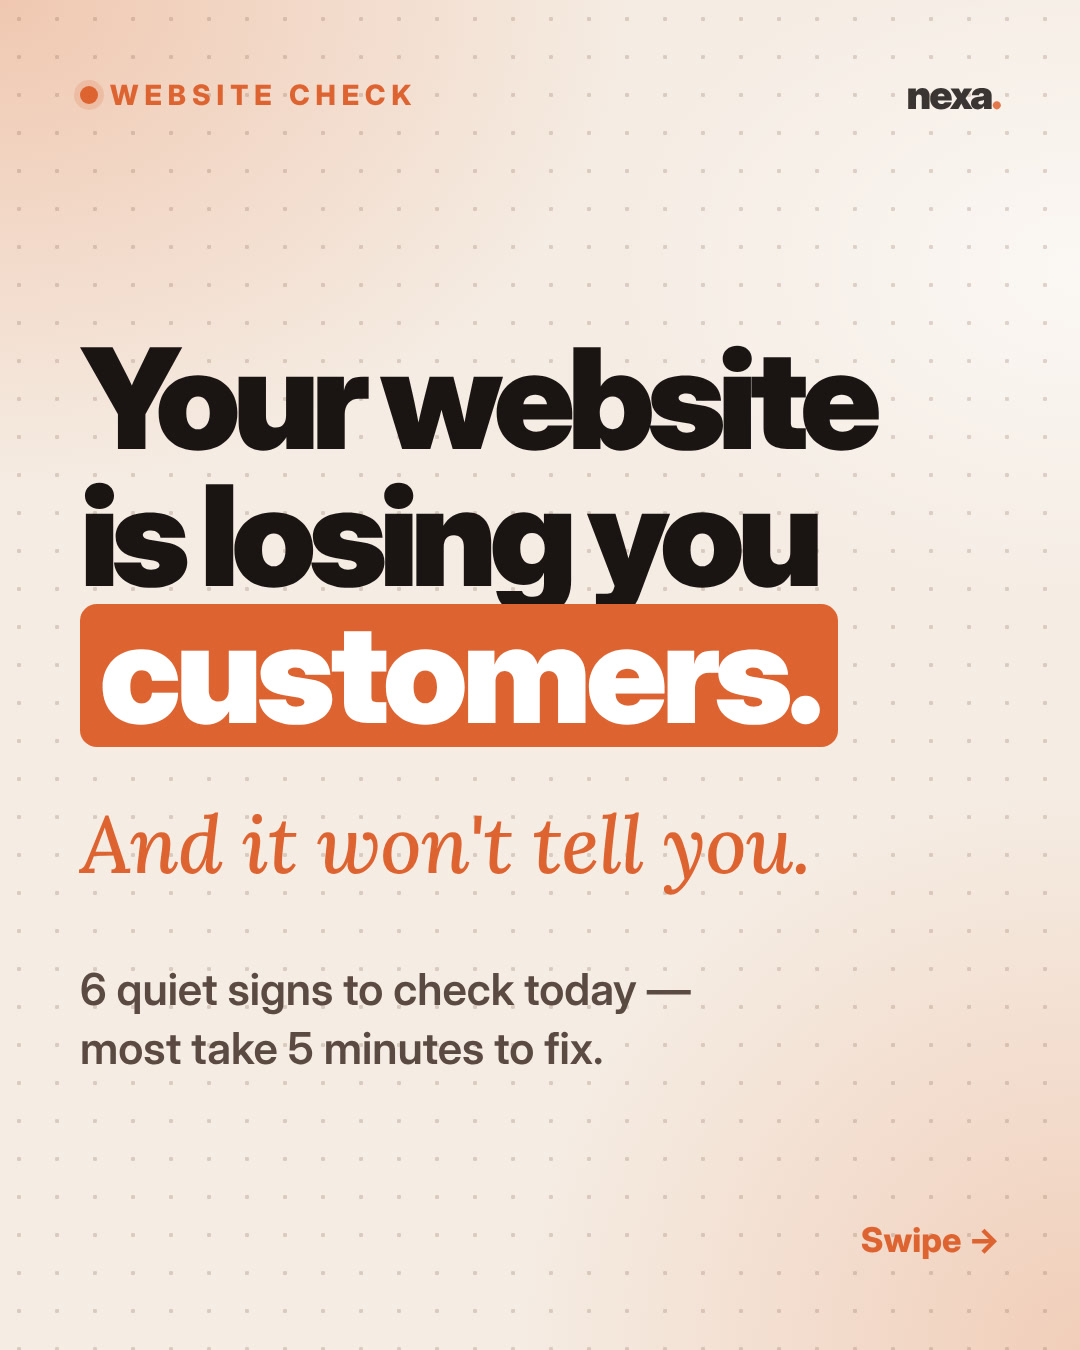
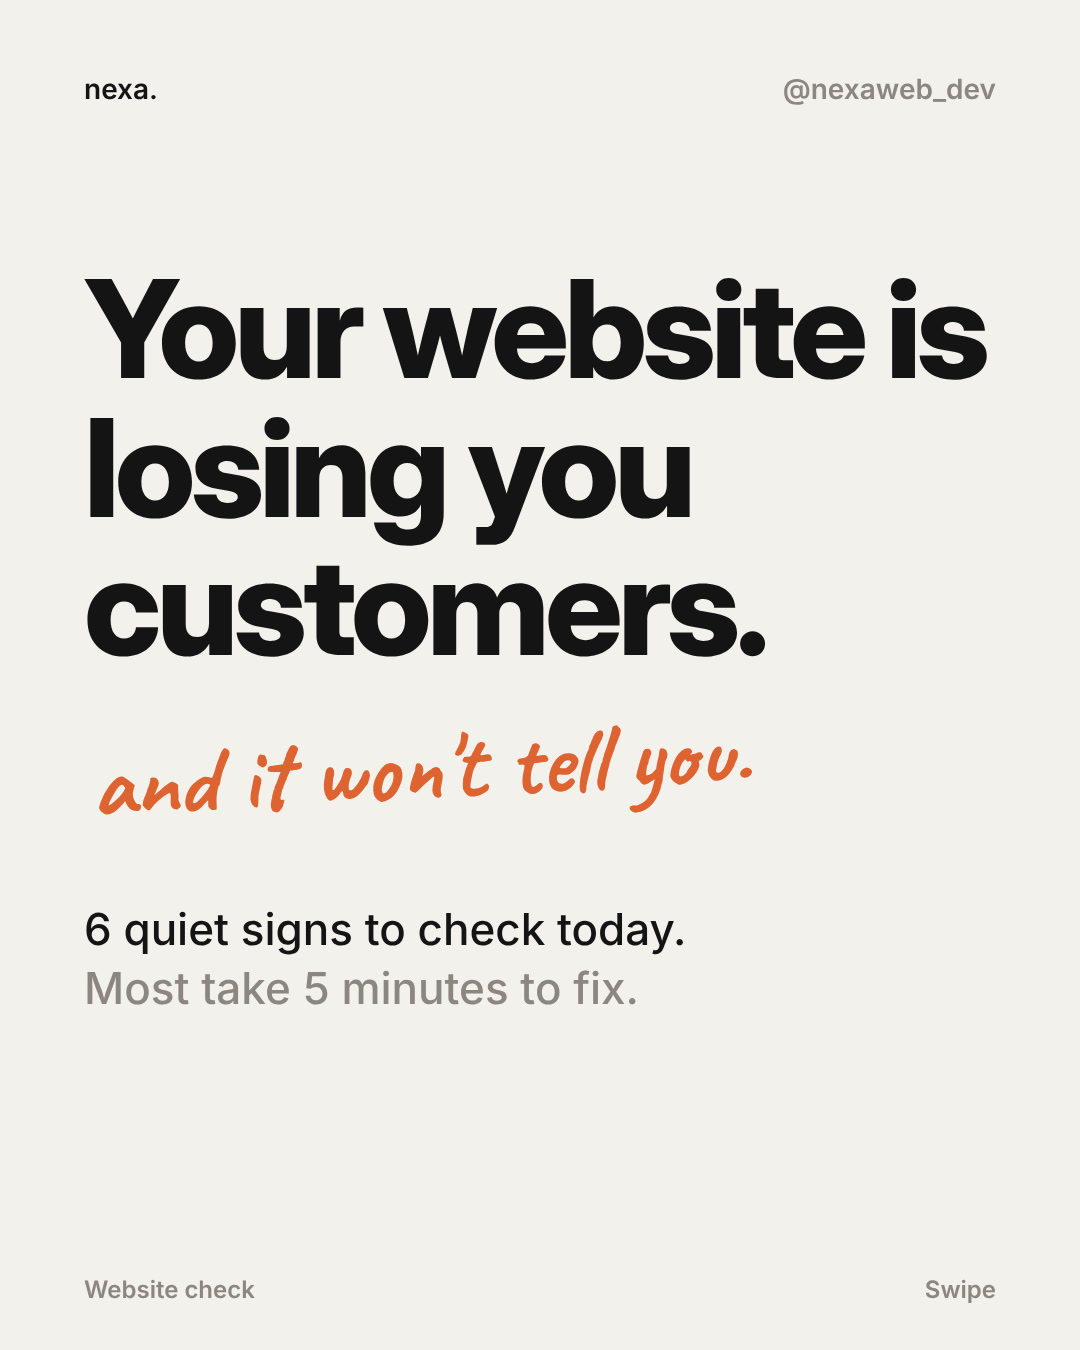
Nexa carousel v2: hand-annotated wireframe style, no dashes; add owner style notes
Claude-Session: https://claude.ai/code/session_01MAv6C5ZgnW2b7gxvkk4iYD

diff --git a/nexa/images/website-costing-customers-6-signs/src/slides.html b/nexa/images/website-costing-customers-6-signs/src/slides.html
@@ -1,126 +1,137 @@
 <!doctype html><html><head><meta charset="utf-8"><style>
+@font-face{font-family:Hand;src:url(/home/claude/reels-hosting/pipeline/fonts/Caveat.ttf)}
 *{box-sizing:border-box;margin:0;padding:0}
-body{font-family:'Inter Display','Inter',sans-serif;color:#1a1412;background:#ccc}
-.s{position:relative;width:1080px;height:1350px;overflow:hidden;background:#F5ECE3}
-.bg{position:absolute;inset:0;background:
- radial-gradient(900px 700px at 0% 0%,rgba(236,170,135,.55),transparent 70%),
- radial-gradient(800px 800px at 100% 100%,rgba(236,170,135,.45),transparent 70%),
- radial-gradient(700px 500px at 100% 20%,rgba(255,255,255,.6),transparent 70%),#F5ECE3}
-.dots{position:absolute;inset:0;background-image:radial-gradient(rgba(120,85,65,.22) 2px,transparent 2.4px);background-size:38px 38px}
-.tag{position:absolute;right:80px;top:70px;font-weight:900;font-size:40px;letter-spacing:-2px;opacity:.85}
-.tag b,.O{color:#DD6431}
-.pg{position:absolute;left:80px;top:78px;font-weight:800;font-size:28px;letter-spacing:6px;color:#DD6431}
-.pg i{display:inline-block;width:18px;height:18px;border-radius:50%;background:#DD6431;margin-right:12px;box-shadow:0 0 0 6px rgba(221,100,49,.18);vertical-align:1px}
-.c{position:absolute;left:80px;right:80px}
-.h{font-weight:900;letter-spacing:-.055em;line-height:.98}
-.box{display:inline-block;background:#DD6431;color:#fff;padding:0 .14em .04em;border-radius:.12em;letter-spacing:-.04em}
-.ser{font-family:'Lora';font-style:italic;font-weight:500;color:#DD6431;letter-spacing:-.01em}
-.card{background:#FFFBF6;border-radius:36px;box-shadow:0 30px 60px rgba(120,70,40,.16);border:1.5px solid rgba(120,80,60,.08);overflow:hidden}
-.bar{height:76px;display:flex;align-items:center;gap:12px;padding:0 30px;border-bottom:1.5px solid #eee2d8}
-.bar s{width:18px;height:18px;border-radius:50%;background:#e8dcd2;display:inline-block}.bar s:first-child{background:#DD6431}
-.url{font-family:'DejaVu Sans Mono',monospace;font-size:24px;color:#a89a90;margin-left:14px}
-.fix{position:absolute;left:80px;right:80px;bottom:90px;background:#242120;color:#f2e8e0;border-radius:32px;padding:34px 40px;font-size:38px;font-weight:600;line-height:1.3;letter-spacing:-.01em}
-.fix b{color:#DD6431;font-weight:900;letter-spacing:2px;font-size:28px;display:block;margin-bottom:10px}
-.bad{display:inline-block;background:#F3D3C0;color:#B44E22;border-radius:999px;padding:8px 24px;font-weight:800;font-size:28px}
-.mono{font-family:'DejaVu Sans Mono',monospace}
-.swipe{position:absolute;right:80px;bottom:90px;font-weight:800;font-size:34px;color:#DD6431}
+body{font-family:'Inter','Inter Display',sans-serif;color:#141414;background:#999}
+.s{position:relative;width:1080px;height:1350px;overflow:hidden;background:#F3F1EC}
+.top{position:absolute;left:84px;right:84px;top:72px;display:flex;justify-content:space-between;font-size:28px;font-weight:600;color:#141414}
+.top span:last-child{color:#8b8780}
+.num{position:absolute;left:84px;top:150px;font-family:'Inter Display';font-weight:800;font-size:34px;color:#DD6431}
+.h{position:absolute;left:84px;right:84px;font-family:'Inter Display';font-weight:800;letter-spacing:-.035em;line-height:1.02}
+.win{position:absolute;left:84px;right:84px;background:#fff;border:3px solid #141414;border-radius:14px;overflow:hidden}
+.wbar{height:58px;border-bottom:3px solid #141414;display:flex;align-items:center;padding:0 22px;gap:10px}
+.wbar i{width:16px;height:16px;border-radius:50%;border:2.5px solid #141414;display:inline-block}
+.wbar span{margin-left:16px;font-family:'DejaVu Sans Mono',monospace;font-size:22px;color:#6f6b64}
+.hand{font-family:Hand;color:#DD6431;font-weight:700;position:absolute;line-height:1}
+svg.mk{position:absolute;overflow:visible;pointer-events:none}
+.fix{position:absolute;left:84px;right:84px;bottom:110px;border-top:3px solid #141414;padding-top:28px;font-size:38px;line-height:1.32;font-weight:500}
+.fix b{font-weight:800}
+.foot{position:absolute;left:84px;right:84px;bottom:46px;display:flex;justify-content:space-between;font-size:24px;color:#8b8780;font-weight:600}
+.grey{color:#8b8780}
+.field{border:2px solid #cfcac2;border-radius:8px;padding:12px 16px;font-size:24px;color:#9a958d}
+.pill{border:2px solid #cfcac2;border-radius:8px;padding:10px 20px;font-size:26px;font-weight:600;color:#8b8780;display:inline-block}
 </style></head><body>
 
-<!-- 1 HOOK -->
-<div class="s" id="s1"><div class="bg"></div><div class="dots"></div><div class="tag">nexa<b>.</b></div>
-<div class="pg"><i></i>WEBSITE CHECK</div>
-<div class="c h" style="top:330px;font-size:140px">Your website<br>is losing you<br><span class="box">customers.</span></div>
-<div class="c ser" style="top:800px;font-size:80px;line-height:1.1">And it won't tell you.</div>
-<div class="c" style="top:960px;font-size:44px;font-weight:600;line-height:1.35;color:#5a4a42">6 quiet signs to check today &mdash;<br>most take 5 minutes to fix.</div>
-<div class="swipe">Swipe &rarr;</div>
+<div class="s" id="s1">
+ <div class="top"><span>nexa.</span><span>@nexaweb_dev</span></div>
+ <div class="h" style="top:260px;font-size:136px">Your website is losing you customers.</div>
+ <div class="hand" style="left:90px;top:720px;font-size:96px;transform:rotate(-3deg)">and it won't tell you.</div>
+ 
+ <div style="position:absolute;left:84px;top:900px;font-size:44px;font-weight:500;line-height:1.35;width:820px">6 quiet signs to check today.<br><span class="grey">Most take 5 minutes to fix.</span></div>
+ <div class="foot"><span>Website check</span><span>Swipe</span></div>
 </div>
 
-<!-- 2 -->
-<div class="s" id="s2"><div class="bg"></div><div class="dots"></div><div class="tag">nexa<b>.</b></div>
-<div class="pg"><i></i>SIGN 01 / 06</div>
-<div class="c h" style="top:170px;font-size:92px">A stranger can't tell <span class="box">what you do</span> in 5 seconds.</div>
-<div class="c card" style="top:500px"><div class="bar"><s></s><s></s><s></s><span class="url">yourplumber.example</span></div>
- <div style="padding:34px 40px"><span class="bad">Before</span><div class="h" style="font-size:54px;margin-top:16px;color:#8a7c74">Welcome to our website!</div>
- <div style="height:2px;background:#eee2d8;margin:26px 0"></div><span class="bad" style="background:#DD6431;color:#fff">After</span><div class="h" style="font-size:54px;margin-top:16px">Blocked drain? Fixed today in Parramatta.</div></div></div>
-<div class="fix"><b>THE FIX</b>Headline = what you do + who it's for + where. "Welcome" says nothing.</div>
+<div class="s" id="s2">
+ <div class="top"><span>nexa.</span><span>2 / 8</span></div>
+ <div class="num">Sign 1</div>
+ <div class="h" style="top:210px;font-size:84px">A stranger can't tell what you do in 5 seconds.</div>
+ <div class="win" style="top:540px;height:420px"><div class="wbar"><i></i><i></i><i></i><span>yourplumber.example</span></div>
+  <div style="padding:40px 44px"><div style="font-size:24px;letter-spacing:3px;color:#9a958d;font-weight:700">HOME &nbsp; ABOUT &nbsp; SERVICES &nbsp; CONTACT</div>
+  <div style="font-family:'Inter Display';font-weight:700;font-size:70px;margin-top:44px;letter-spacing:-.02em">Welcome to our website!</div>
+  <div style="font-size:28px;color:#9a958d;margin-top:18px">We are passionate about excellence and quality.</div></div></div>
+ <svg class="mk" id="c2" style="left:100px;top:660px" width="860" height="160"></svg>
+ <div class="hand" style="left:470px;top:975px;font-size:62px;transform:rotate(-4deg)">ok but what do you do?</div>
+ <div class="fix"><b>Fix:</b> say what you do, who it's for and where. "Blocked drain? Fixed today in Parramatta."</div>
+ <div class="foot"><span>@nexaweb_dev</span><span>Save for later</span></div>
 </div>
 
-<!-- 3 -->
-<div class="s" id="s3"><div class="bg"></div><div class="dots"></div><div class="tag">nexa<b>.</b></div>
-<div class="pg"><i></i>SIGN 02 / 06</div>
-<div class="c h" style="top:170px;font-size:92px">Your phone number <span class="box">can't be tapped</span> on mobile.</div>
-<div style="position:absolute;left:300px;top:470px;width:480px;height:520px" class="card">
- <div style="height:40px;display:flex;justify-content:center;align-items:center"><span style="width:120px;height:12px;border-radius:9px;background:#e8dcd2"></span></div>
- <div style="padding:20px 36px"><div style="height:22px;width:70%;background:#eee2d8;border-radius:8px"></div><div style="height:22px;width:90%;background:#eee2d8;border-radius:8px;margin-top:14px"></div>
- <div class="mono" style="margin-top:30px;font-size:34px;color:#8a7c74">Ph: 02 5550 4321</div><div style="font-size:24px;color:#B44E22;font-weight:700;margin-top:8px">&uarr; just text. Copy, switch apps, paste&hellip;</div>
- <div style="margin-top:36px;background:#DD6431;color:#fff;border-radius:999px;text-align:center;padding:24px;font-weight:900;font-size:36px">&#9742; Tap to call</div>
- <div style="font-size:24px;color:#5a4a42;font-weight:700;margin-top:10px;text-align:center">&uarr; one tap. Done.</div></div></div>
-<div class="fix"><b>THE FIX</b>Link every number with tel: and add a call button that's always in reach.</div>
+<div class="s" id="s3">
+ <div class="top"><span>nexa.</span><span>3 / 8</span></div>
+ <div class="num">Sign 2</div>
+ <div class="h" style="top:210px;font-size:84px">Your phone number can't be tapped on mobile.</div>
+ <div class="win" style="left:120px;right:auto;width:480px;top:520px;height:470px;border-radius:44px">
+  <div style="padding:60px 40px"><div style="height:20px;width:70%;background:#e6e2db;border-radius:6px"></div><div style="height:20px;width:90%;background:#e6e2db;border-radius:6px;margin-top:14px"></div>
+  <div style="font-size:30px;font-weight:600;margin-top:46px">Call us today!</div>
+  <div style="font-size:40px;font-weight:500;margin-top:8px;color:#6f6b64">02 5550 4321</div>
+  <div style="height:20px;width:80%;background:#e6e2db;border-radius:6px;margin-top:46px"></div><div style="height:20px;width:60%;background:#e6e2db;border-radius:6px;margin-top:14px"></div></div></div>
+ <svg class="mk" id="c3" style="left:125px;top:722px" width="400" height="90"></svg>
+ <div class="hand" style="left:640px;top:690px;font-size:60px;transform:rotate(-4deg);width:380px">&larr; not a link.<br>copy, paste,<br>give up</div>
+ <div class="fix"><b>Fix:</b> make every number a tap to call link, plus a call button that stays on screen.</div>
+ <div class="foot"><span>@nexaweb_dev</span><span>Save for later</span></div>
 </div>
 
-<!-- 4 -->
-<div class="s" id="s4"><div class="bg"></div><div class="dots"></div><div class="tag">nexa<b>.</b></div>
-<div class="pg"><i></i>SIGN 03 / 06</div>
-<div class="c h" style="top:170px;font-size:92px">Your contact form asks for their <span class="box">life story.</span></div>
-<div class="c card" style="top:500px;height:470px;padding:34px 40px">
- <div style="display:grid;grid-template-columns:1fr 1fr;gap:16px">
- <div class="mono" style="font-size:24px;color:#a89a90;border:2px solid #eee2d8;border-radius:14px;padding:14px">Name *</div><div class="mono" style="font-size:24px;color:#a89a90;border:2px solid #eee2d8;border-radius:14px;padding:14px">Company *</div>
- <div class="mono" style="font-size:24px;color:#a89a90;border:2px solid #eee2d8;border-radius:14px;padding:14px">Job title *</div><div class="mono" style="font-size:24px;color:#a89a90;border:2px solid #eee2d8;border-radius:14px;padding:14px">Budget *</div>
- <div class="mono" style="font-size:24px;color:#a89a90;border:2px solid #eee2d8;border-radius:14px;padding:14px">Address *</div><div class="mono" style="font-size:24px;color:#a89a90;border:2px solid #eee2d8;border-radius:14px;padding:14px">Postcode *</div>
- <div class="mono" style="font-size:24px;color:#a89a90;border:2px solid #eee2d8;border-radius:14px;padding:14px">How did you hear? *</div><div class="mono" style="font-size:24px;color:#a89a90;border:2px solid #eee2d8;border-radius:14px;padding:14px">Fax *</div></div>
- <div class="ser" style="font-size:52px;margin-top:36px;text-align:center">&hellip;and they're gone.</div></div>
-<div class="fix"><b>THE FIX</b>Ask only what you need to reply: name, phone or email, message. Get the rest on the call.</div>
+<div class="s" id="s4">
+ <div class="top"><span>nexa.</span><span>4 / 8</span></div>
+ <div class="num">Sign 3</div>
+ <div class="h" style="top:210px;font-size:84px">Your contact form asks for their life story.</div>
+ <div class="win" style="top:540px;height:420px"><div class="wbar"><i></i><i></i><i></i><span>Get in touch</span></div>
+  <div style="padding:30px 40px;display:grid;grid-template-columns:1fr 1fr;gap:14px">
+  <div class="field">Name *</div><div class="field">Company *</div><div class="field">Job title *</div><div class="field">Budget *</div>
+  <div class="field">Street address *</div><div class="field">Postcode *</div><div class="field">How did you hear? *</div><div class="field">Fax *</div></div></div>
+ <svg class="mk" id="c4" style="left:535px;top:824px" width="420" height="84"></svg>
+ <div class="hand" style="left:760px;top:965px;font-size:64px;transform:rotate(-3deg)">fax??</div>
+ <div class="fix"><b>Fix:</b> ask only what you need to reply. Name, phone or email, message. Get the rest on the call.</div>
+ <div class="foot"><span>@nexaweb_dev</span><span>Save for later</span></div>
 </div>
 
-<!-- 5 -->
-<div class="s" id="s5"><div class="bg"></div><div class="dots"></div><div class="tag">nexa<b>.</b></div>
-<div class="pg"><i></i>SIGN 04 / 06</div>
-<div class="c h" style="top:170px;font-size:92px">It loads slower than they can <span class="box">scroll away.</span></div>
-<div class="c card" style="top:500px;height:400px"><div class="bar"><s></s><s></s><s></s><span class="url">loading&hellip;</span></div>
- <div style="padding:46px 44px">
- <div style="height:34px;border-radius:999px;background:#eee2d8;overflow:hidden"><div style="width:28%;height:100%;background:#DD6431;border-radius:999px"></div></div>
- <div style="display:flex;justify-content:space-between;margin-top:22px;font-weight:800;font-size:32px;color:#8a7c74"><span>hero-photo-FINAL.png</span><span class="mono">14.2 MB</span></div>
- <div class="ser" style="font-size:52px;margin-top:40px">One giant photo can do this.</div></div></div>
-<div class="fix"><b>THE FIX</b>Compress and resize images, then test your site free at pagespeed.web.dev.</div>
+<div class="s" id="s5">
+ <div class="top"><span>nexa.</span><span>5 / 8</span></div>
+ <div class="num">Sign 4</div>
+ <div class="h" style="top:210px;font-size:84px">It loads slower than they can scroll away.</div>
+ <div class="win" style="top:480px;height:440px"><div class="wbar"><i></i><i></i><i></i><span>loading...</span></div>
+  <div style="height:270px;background:#e6e2db;display:flex;align-items:center;justify-content:center;font-size:30px;color:#9a958d;font-weight:600">hero-photo-FINAL-v3.png (14 MB)</div>
+  <div style="padding:22px 40px"><div style="height:20px;width:60%;background:#e6e2db;border-radius:6px"></div></div></div>
+ <div class="hand" style="left:540px;top:850px;font-size:60px;transform:rotate(-3deg)">still loading...</div>
+ <div class="fix"><b>Fix:</b> resize and compress your images, then test your site for free at pagespeed.web.dev</div>
+ <div class="foot"><span>@nexaweb_dev</span><span>Save for later</span></div>
 </div>
 
-<!-- 6 -->
-<div class="s" id="s6"><div class="bg"></div><div class="dots"></div><div class="tag">nexa<b>.</b></div>
-<div class="pg"><i></i>SIGN 05 / 06</div>
-<div class="c h" style="top:170px;font-size:92px">They have to <span class="box">hunt</span> for the next step.</div>
-<div class="c card" style="top:500px;height:400px;padding:40px 44px">
- <div style="display:flex;gap:16px;flex-wrap:wrap">
- <span style="border:2px solid #e8dcd2;border-radius:999px;padding:12px 24px;font-weight:700;font-size:28px;color:#8a7c74">Learn more</span>
- <span style="border:2px solid #e8dcd2;border-radius:999px;padding:12px 24px;font-weight:700;font-size:28px;color:#8a7c74">Our story</span>
- <span style="border:2px solid #e8dcd2;border-radius:999px;padding:12px 24px;font-weight:700;font-size:28px;color:#8a7c74">Explore</span>
- <span style="border:2px solid #e8dcd2;border-radius:999px;padding:12px 24px;font-weight:700;font-size:28px;color:#8a7c74">Discover</span>
- <span style="border:2px solid #e8dcd2;border-radius:999px;padding:12px 24px;font-weight:700;font-size:28px;color:#8a7c74">Resources</span>
- <span style="border:2px solid #e8dcd2;border-radius:999px;padding:12px 24px;font-weight:700;font-size:28px;color:#8a7c74">Gallery</span></div>
- <div style="text-align:center;margin-top:44px"><span style="background:#DD6431;color:#fff;border-radius:999px;padding:24px 56px;font-weight:900;font-size:40px;display:inline-block">Get a free quote &rarr;</span></div>
- <div style="text-align:center;font-size:26px;font-weight:700;color:#5a4a42;margin-top:16px">One main action. Make it obvious.</div></div>
-<div class="fix"><b>THE FIX</b>One clear button near the top, repeated as they scroll. Same words every time.</div>
+<div class="s" id="s6">
+ <div class="top"><span>nexa.</span><span>6 / 8</span></div>
+ <div class="num">Sign 5</div>
+ <div class="h" style="top:210px;font-size:84px">They have to hunt for the next step.</div>
+ <div class="win" style="top:480px;height:420px"><div class="wbar"><i></i><i></i><i></i><span>yourbusiness.example</span></div>
+  <div style="padding:40px 44px;display:flex;flex-wrap:wrap;gap:16px">
+  <span class="pill">Learn more</span><span class="pill">Our story</span><span class="pill">Explore</span><span class="pill">Discover</span><span class="pill">Resources</span><span class="pill">Gallery</span><span class="pill">Find out more</span><span class="pill">Blog</span></div></div>
+ <svg class="mk" id="c6" style="left:100px;top:540px" width="880" height="250"></svg>
+ <div class="hand" style="left:520px;top:830px;font-size:58px;transform:rotate(-3deg)">so... how do I book?</div>
+ <div class="fix"><b>Fix:</b> one main button ("Get a quote") near the top, repeated as they scroll. Same words every time.</div>
+ <div class="foot"><span>@nexaweb_dev</span><span>Save for later</span></div>
 </div>
 
-<!-- 7 -->
-<div class="s" id="s7"><div class="bg"></div><div class="dots"></div><div class="tag">nexa<b>.</b></div>
-<div class="pg"><i></i>SIGN 06 / 06</div>
-<div class="c h" style="top:170px;font-size:92px">Your site looks like nobody's <span class="box">home.</span></div>
-<div class="c card" style="top:500px;height:400px;padding:40px 44px">
- <div style="font-weight:800;font-size:34px">Latest news</div>
- <div style="margin-top:20px;border-left:6px solid #DD6431;padding-left:20px"><div class="mono" style="font-size:26px;color:#B44E22">Posted March 2019</div><div style="font-size:34px;font-weight:700;margin-top:6px">"Exciting things coming soon!"</div></div>
- <div style="height:2px;background:#eee2d8;margin:34px 0 22px"></div>
- <div class="mono" style="font-size:26px;color:#8a7c74">&copy; 2019 Example Co &middot; Opening hours: TBC</div></div>
-<div class="fix"><b>THE FIX</b>Update the footer year, hours and old posts &mdash; or delete them. Stale looks closed.</div>
+<div class="s" id="s7">
+ <div class="top"><span>nexa.</span><span>7 / 8</span></div>
+ <div class="num">Sign 6</div>
+ <div class="h" style="top:210px;font-size:84px">Your site looks like nobody's home.</div>
+ <div class="win" style="top:480px;height:420px"><div class="wbar"><i></i><i></i><i></i><span>yourbusiness.example/news</span></div>
+  <div style="padding:36px 44px"><div style="font-size:26px;color:#9a958d;font-weight:600">Posted March 2019</div>
+  <div style="font-size:44px;font-weight:700;margin-top:10px">Exciting things coming soon!</div>
+  <div style="height:2px;background:#e6e2db;margin:60px 0 24px"></div>
+  <div style="font-size:24px;color:#9a958d">© 2019 Example Co &nbsp;·&nbsp; Opening hours: TBC</div></div></div>
+ <svg class="mk" id="c7" style="left:100px;top:590px" width="720" height="100"></svg>
+ <div class="hand" style="left:560px;top:820px;font-size:58px;transform:rotate(-3deg)">are they still open?</div>
+ <div class="fix"><b>Fix:</b> update the footer year, hours and old posts, or delete them. Stale looks closed.</div>
+ <div class="foot"><span>@nexaweb_dev</span><span>Save for later</span></div>
 </div>
 
-<!-- 8 CTA -->
-<div class="s" id="s8"><div class="bg"></div><div class="dots"></div><div class="tag">nexa<b>.</b></div>
-<div class="pg"><i></i>QUICK RECAP</div>
-<div class="c h" style="top:170px;font-size:84px">How many did your site <span class="box">fail?</span></div>
-<div class="c card" style="top:430px;padding:30px 44px;font-size:36px;font-weight:700;line-height:1.75">
- <div>&#9744;&nbsp; Clear "what we do" headline</div><div>&#9744;&nbsp; Tap-to-call number</div><div>&#9744;&nbsp; Short contact form</div>
- <div>&#9744;&nbsp; Fast load (test it free)</div><div>&#9744;&nbsp; One obvious button</div><div>&#9744;&nbsp; Nothing out of date</div></div>
-<div class="c" style="top:1000px;text-align:center"><div class="ser" style="font-size:58px">Save this. Check yours tonight.</div>
- <div style="margin-top:34px;display:inline-block;background:#242120;color:#fff;border-radius:999px;padding:24px 50px;font-weight:900;font-size:40px">Follow <span class="O">@nexaweb_dev</span> for more</div></div>
+<div class="s" id="s8">
+ <div class="top"><span>nexa.</span><span>8 / 8</span></div>
+ <div class="h" style="top:170px;font-size:92px">How many did your site fail?</div>
+ <div style="position:absolute;left:84px;right:84px;top:420px;font-size:42px;font-weight:500;line-height:1">
+  <div style="border-top:3px solid #141414;padding:26px 0;display:flex;gap:26px"><span class="grey">1</span>Clear "what we do" headline</div>
+  <div style="border-top:2px solid #cfcac2;padding:26px 0;display:flex;gap:26px"><span class="grey">2</span>Tap to call number</div>
+  <div style="border-top:2px solid #cfcac2;padding:26px 0;display:flex;gap:26px"><span class="grey">3</span>Short contact form</div>
+  <div style="border-top:2px solid #cfcac2;padding:26px 0;display:flex;gap:26px"><span class="grey">4</span>Loads fast</div>
+  <div style="border-top:2px solid #cfcac2;padding:26px 0;display:flex;gap:26px"><span class="grey">5</span>One obvious button</div>
+  <div style="border-top:2px solid #cfcac2;border-bottom:3px solid #141414;padding:26px 0;display:flex;gap:26px"><span class="grey">6</span>Nothing out of date</div></div>
+ <div class="hand" style="left:84px;top:1060px;font-size:72px;transform:rotate(-2deg)">save this, check yours tonight</div>
+ <div style="position:absolute;left:84px;top:1170px;font-size:38px;font-weight:700">Follow @nexaweb_dev for more.</div>
 </div>
+
+<script>
+// hand-drawn marker loops (deterministic wobble)
+function loop(id,w,h,rot){const el=document.getElementById(id);let r=1;const rnd=()=>{r=(r*9301+49297)%233280;return r/233280};
+let d='',cx=w/2,cy=h/2;for(let i=0;i<=56;i++){const a=-1.9+i/50*Math.PI*2;const k=1+(rnd()-.5)*.05+(i>50?.06:0);const x=cx+Math.cos(a)*(w/2-8)*k,y=cy+Math.sin(a)*(h/2-8)*k;d+=(i?'L':'M')+x.toFixed(1)+' '+y.toFixed(1)}
+el.innerHTML=`<path d="${d}" stroke="#DD6431" stroke-width="6" fill="none" stroke-linecap="round" stroke-linejoin="round" transform="rotate(${rot} ${cx} ${cy})"/>`}
+loop('c2',860,160,-1.5);loop('c3',400,90,2);loop("c4",420,84,-2);loop('c6',880,250,1);loop("c7",720,100,-1);
+</script>
 </body></html>

diff --git a/nexa/NOTES.md b/nexa/NOTES.md
@@ -1,0 +1,7 @@
+# Nexa content notes (owner feedback)
+
+- 2026-11-20 (Jayden): carousels must NOT use the cream/peach gradient + dot-grid + orange highlight-box style. It "looks too AI".
+  Use a more human, designer-made look instead. Current carousel style (v2, nexa/images/website-costing-customers-6-signs):
+  flat off-white background, black Inter headlines, simple wireframe mockups with black outlines,
+  hand-drawn orange marker circles and handwritten notes (pipeline/fonts/Caveat.ttf), plain "Fix:" text. No gradients, glows, dot grids.
+- 2026-11-20 (Jayden): no em dashes or en dashes (— –) anywhere: slides, captions, on-screen text. Use full stops or commas.
